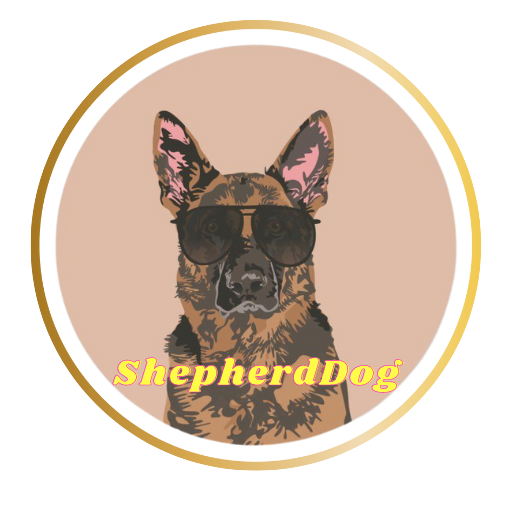
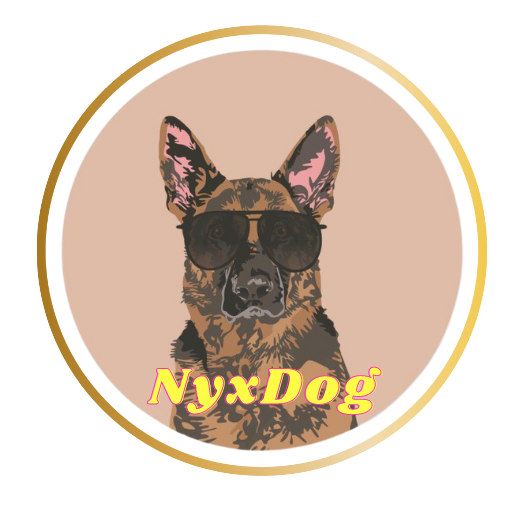
update

Changed region(s): [[0.0625, 0.0312, 0.9688, 0.9375], [0.1875, 0.7812, 0.2188, 0.8125]]

diff --git a/index.html b/index.html
@@ -13,7 +13,7 @@
     />
     <link rel="stylesheet" href="./assets/css/index.css" />
 
-    <title>Shepherd Dog</title>
+    <title>Nyx Dog</title>
   </head>
   <body>
     <header id="header">
@@ -56,14 +56,14 @@
               </li>
 
               <li class="social-item">
-                <a class="image" href="https://t.me/ShepherdDogAvax">
+                <a class="image" href="https://t.me/NyxDog">
                   <img src="./assets/images/21.png" alt="Icon" />
                 </a>
               </li>
               <li class="social-item">
                 <a
                   class="image"
-                  href="https://twitter.com/ShepherdDogAVAX
+                  href="https://twitter.com/NyxDog
 "
                 >
                   <img src="./assets/images/22.png" alt="Icon" />
@@ -109,14 +109,14 @@
         <div class="container">
           <div class="banner-wrapper">
             <div class="heading-block">
-              <span class="badge"> Shepherd Dog </span>
-              <h1 class="title">
-                Leap into the Future of Crypto on Avalanche!
-              </h1>
+              <span class="badge"> Nyx Dog </span>
+              <h1 class="title">Nyx: A Canine-Inspired Crypto Tribute</h1>
               <p class="desc">
-                The project of the meme coin German Shepherd on the Avalanche
-                (AVAX) network is an intriguing initiative that blends meme
-                culture with admiration for the German Shepherd dog breed.
+                Nyx, a novel crypto project, pays homage to the loyalty of Nyx,
+                the pet German Shepherd of Carrianne Fairbairn, Executive
+                Assistant at Avalanche (AVA). Named after the Greek goddess of
+                the night, Nyx represents the values of loyalty, trust, and
+                resilience.
               </p>
             </div>
             <div class="banner-image">
@@ -137,17 +137,22 @@
                 <h2 class="title">About Us</h2>
               </div>
               <p class="para">
-                Built on the AVAX blockchain platform, this coin carries a
-                strong sense of entertainment and nostalgia for one of the most
-                intelligent and loyal dog breeds in the world.
+                This community-driven project, drawing inspiration from Nyx's
+                fidelity, aligns with Avalanche's commitment to
+                decentralization. Nyx's whitepaper outlines a decentralized
+                ecosystem where community members actively participate in
+                decision-making processes, fostering a democratic and inclusive
+                ethos.
               </p>
               <p class="para">
-                The primary objective of the project is to establish a robust
-                community where enthusiasts of the German Shepherd breed and
-                cryptocurrency can connect, interact, and share their passion.
-                The German Shepherd meme coin isn't just a digital currency;
-                it's also an interactive community where everyone can engage in
-                creating fun and creative content related to this dog breed.
+                The Nyx token serves as the project's backbone, embodying the
+                community's commitment to its core values. With plans for
+                strategic partnerships and innovative use cases, Nyx aims to
+                create a unique space within the crypto landscape, bridging the
+                emotional connection between humans and blockchain technology.
+                As Nyx unfolds, its evolution promises to leave a lasting impact
+                on the crypto community, intertwining the loyalty of a beloved
+                pet with the principles of decentralization.
               </p>
             </div>
           </div>
@@ -264,14 +269,14 @@
           </li>
 
           <li class="social-item">
-            <a class="image" href="https://t.me/ShepherdDogAvax">
+            <a class="image" href="https://t.me/NyxDog">
               <img src="./assets/images/21.png" alt="Icon" />
             </a>
           </li>
           <li class="social-item">
             <a
               class="image"
-              href="https://twitter.com/ShepherdDogAVAX
+              href="https://twitter.com/NyxDog
 "
             >
               <img src="./assets/images/22.png" alt="Icon" />
@@ -279,14 +284,12 @@
           </li>
         </ul>
         <p class="text">
-          $SDOG is a playful meme coin crafted solely for amusement, carrying no
-          inherent value or anticipation of financial gains. The coin embraces
-          its purpose of being entirely whimsical and designed purely for
-          entertainment.
+          $NyxDog is a playful meme coin crafted solely for amusement, carrying
+          no inherent value or anticipation of financial gains. The coin
+          embraces its purpose of being entirely whimsical and designed purely
+          for entertainment.
         </p>
-        <p class="copyrights">
-          Copyright © 2023 Shepherd Dog. All Rights Reserved.
-        </p>
+        <p class="copyrights">Copyright © 2023 Nyx Dog. All Rights Reserved.</p>
       </div>
     </footer>
     <script
